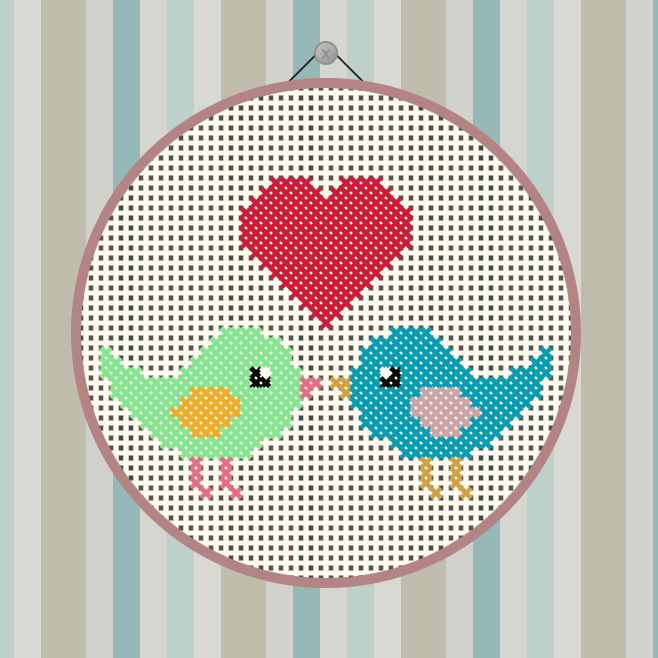
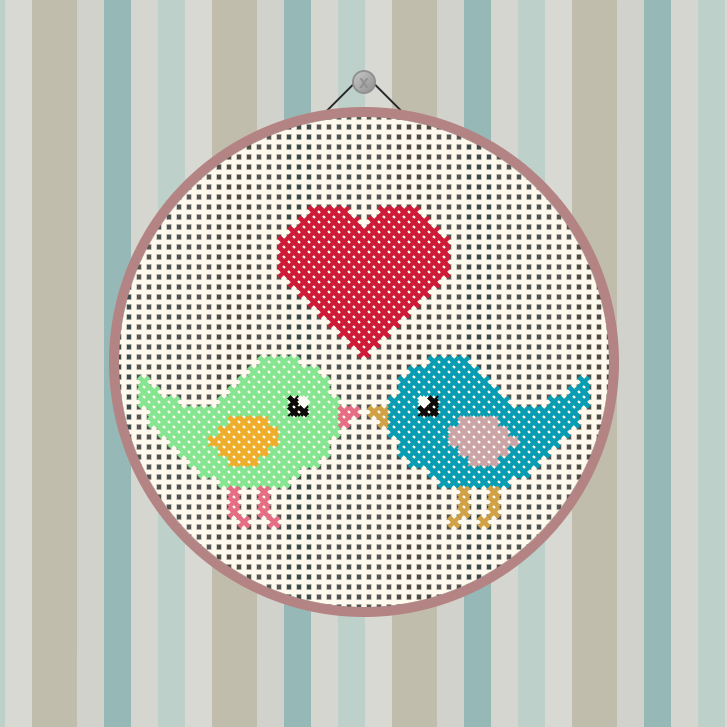
Fix feet position of second bird

diff --git a/src/art/royranger3/script.js b/src/art/royranger3/script.js
@@ -57,7 +57,7 @@ const pattern = [
 	'xxxxxxxxxfxxfxxxxxxxxxxxxxxxxxxxfxxfxxxxxxxxx',
 	'xxxxxxxxxfxxfxxxxxxxxxxxxxxxxxxxfxxfxxxxxxxxx',
 	'xxxxxxxxxfxxfxxxxxxxxxxxxxxxxxxxfxxfxxxxxxxxx',
-	'xxxxxxxxxxfxxfxxxxxxxxxxxxxxxxxxxfxxfxxxxxxxx'
+	'xxxxxxxxxxfxxfxxxxxxxxxxxxxxxxxfxxfxxxxxxxxxx'
 ];
 
 const weaveLength = 49;
